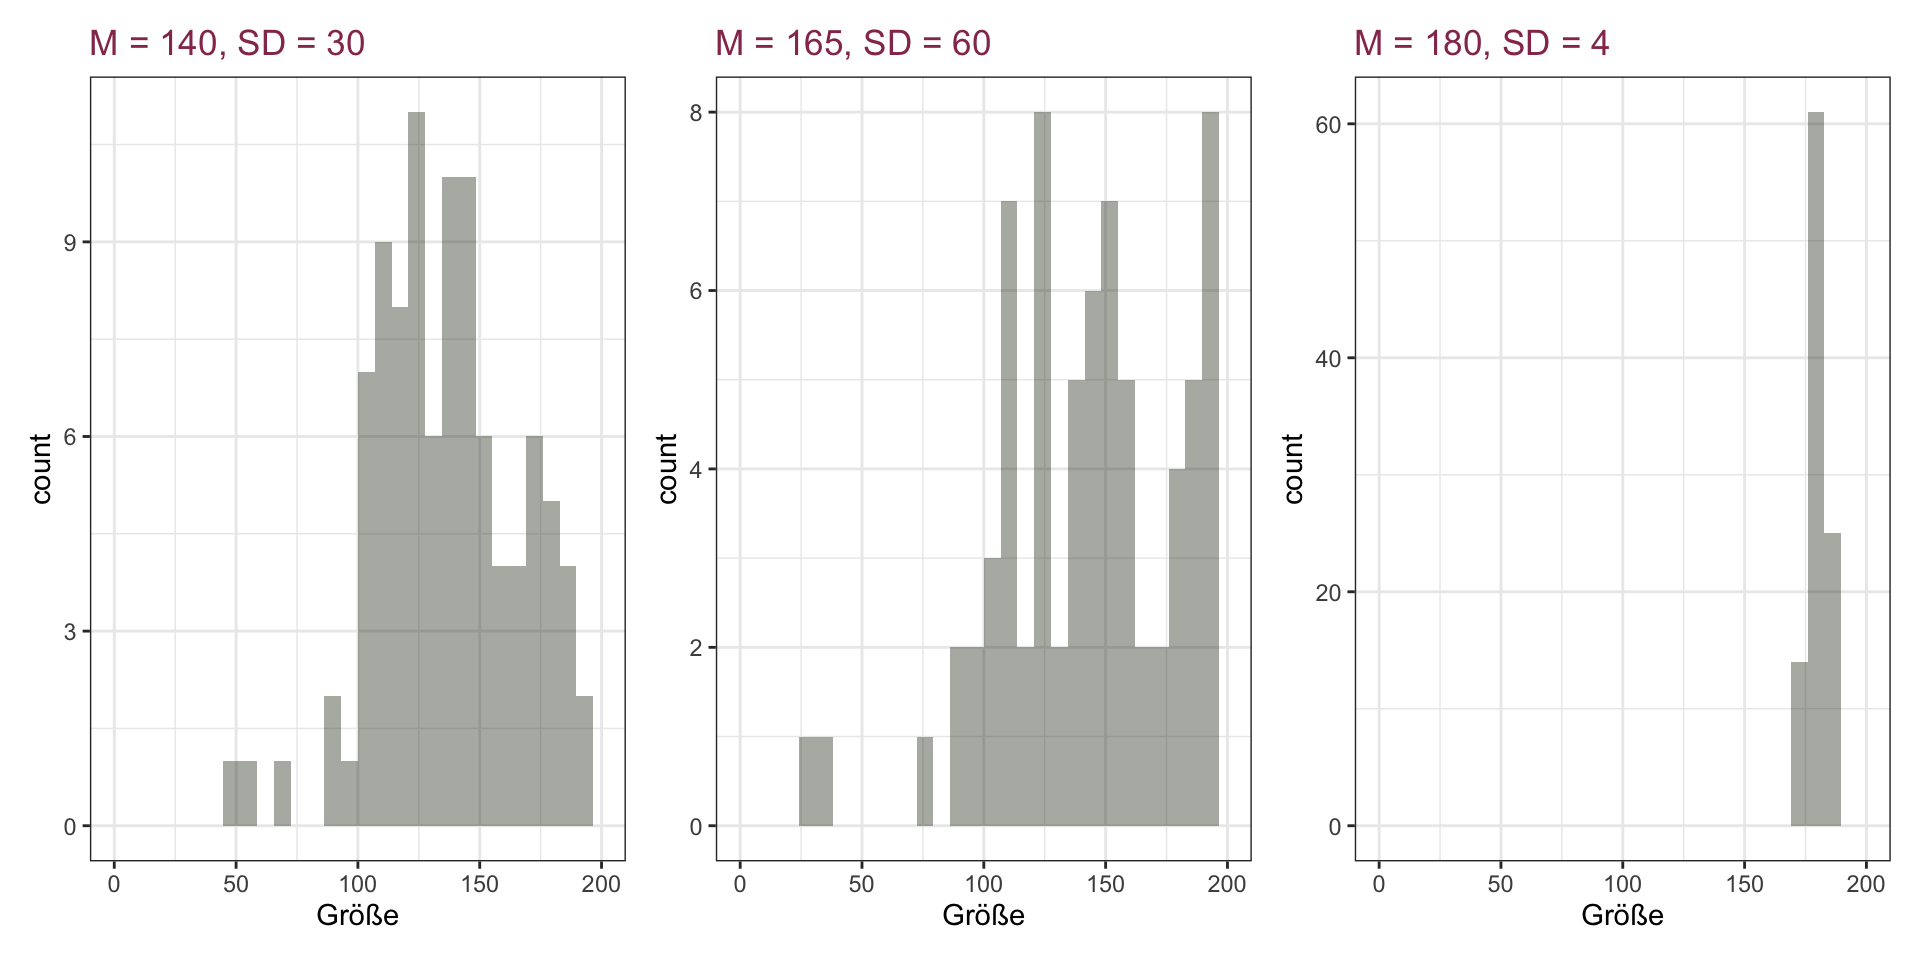
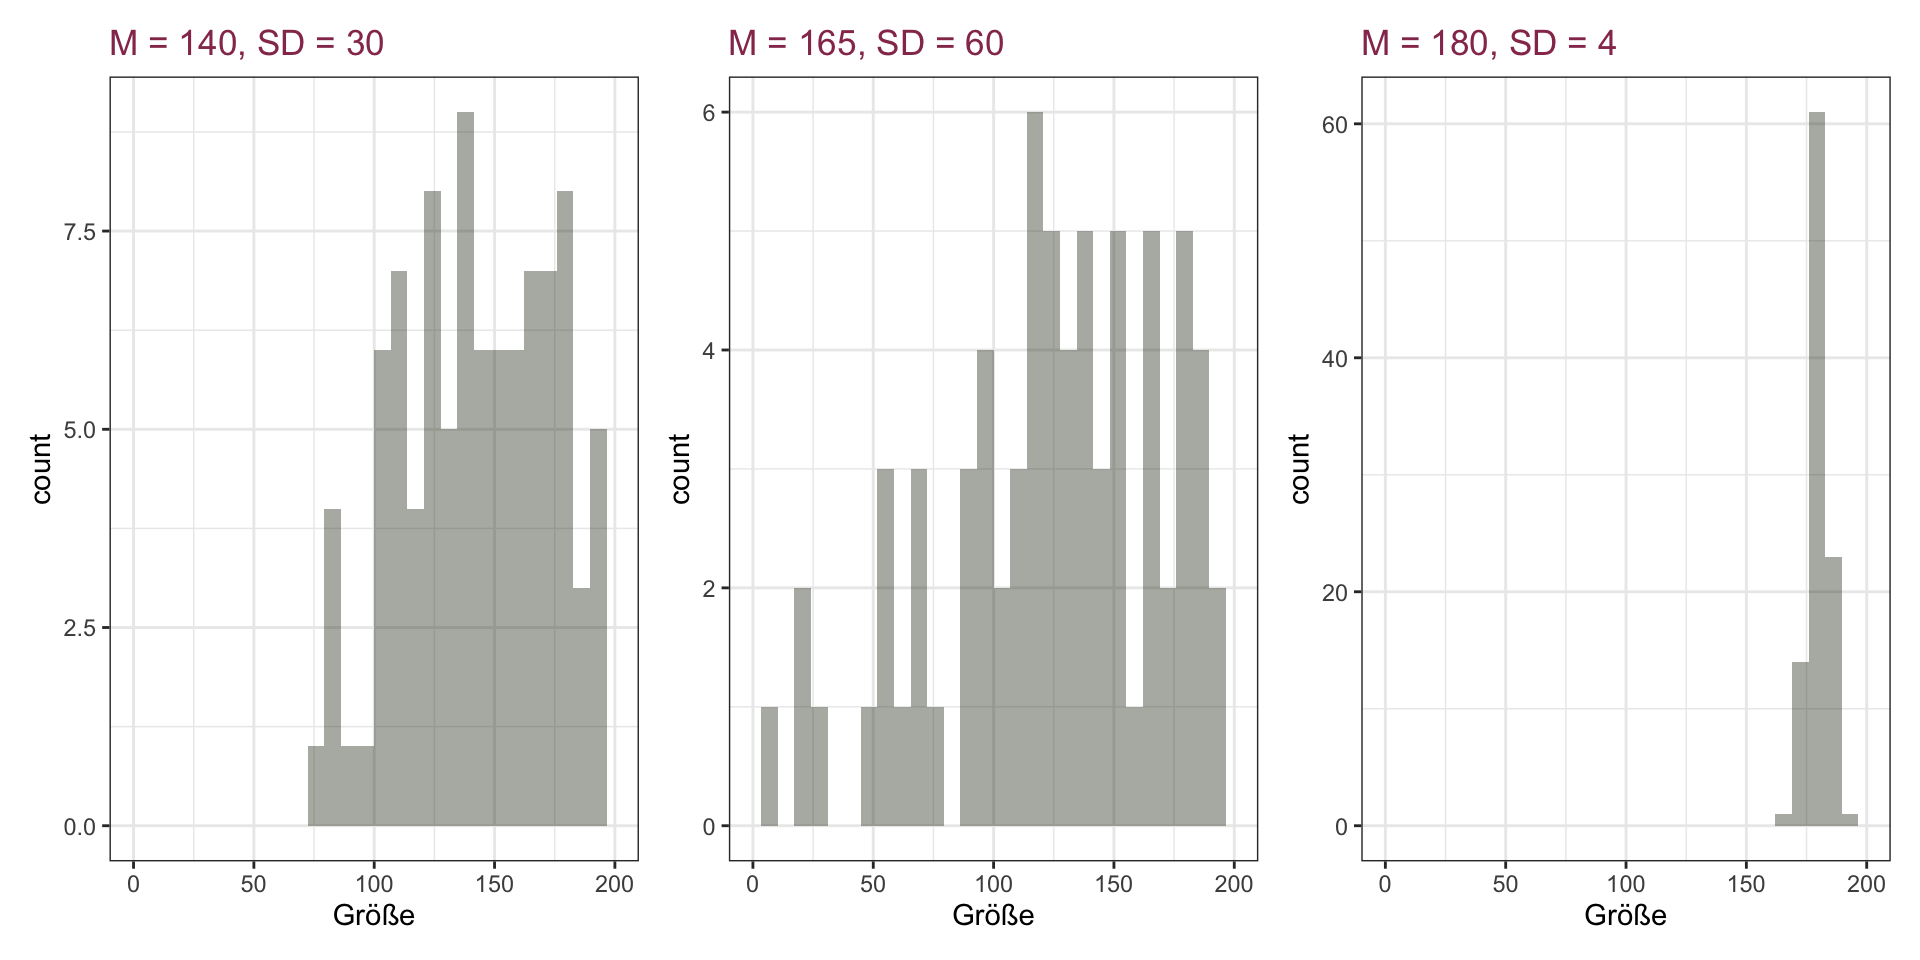
include Lernziele

diff --git a/docs/Sitzung_3.html b/docs/Sitzung_3.html
@@ -271,106 +271,106 @@ Eva Scheel
 <div class="cell">
 <div class="cell-output cell-output-stdout">
 <pre><code>    groesse_cm
-1        145.6
-2        151.5
-3        132.4
-4        129.8
-5        131.4
-6        135.3
-7        138.3
-8        132.3
-9        142.3
-10       133.3
-11       122.7
-12       136.0
-13       137.3
-14       143.3
-15       140.3
-16       134.5
-17       139.7
-18       144.9
-19       125.9
-20       144.3
-21       142.8
-22       146.1
-23       154.2
-24       146.2
-25       142.2
-26       133.8
-27       144.0
-28       139.4
-29       149.1
-30       140.8
-31       149.9
-32       136.5
-33       145.6
-34       143.1
-35       134.4
-36       125.9
-37       139.2
-38       151.3
-39       154.1
-40       129.9
-41       137.2
-42       138.5
-43       126.6
-44       149.8
-45       139.4
-46       151.7
-47       117.6
-48       128.5
-49       146.1
-50       126.7
-51       154.7
-52       141.9
-53       132.9
-54       146.0
-55       132.0
-56       130.2
-57       135.9
-58       136.7
-59       146.2
-60       158.1
-61       132.7
-62       125.4
-63       149.0
-64       145.2
-65       134.6
-66       141.6
-67       130.5
-68       136.5
-69       153.2
-70       137.1
-71       141.9
-72       151.6
-73       149.7
-74       144.6
-75       153.1
-76       131.5
-77       165.4
-78       150.3
-79       142.8
-80       143.9
-81       135.4
-82       126.8
-83       129.3
-84       155.2
-85       126.0
-86       132.6
-87       139.3
-88       154.7
-89       146.9
-90       131.9
-91       148.0
-92       126.0
-93       147.6
-94       133.1
-95       136.3
-96       138.6
-97       181.7
-98       134.8
-99       133.9
-100      151.3</code></pre>
+1        131.9
+2        136.3
+3        124.8
+4        133.3
+5        142.4
+6        140.0
+7        138.5
+8        132.6
+9        145.5
+10       152.6
+11       147.7
+12       121.5
+13       152.2
+14       125.1
+15       141.3
+16       144.0
+17       120.9
+18       122.7
+19       155.8
+20       140.9
+21       143.1
+22       148.6
+23       147.7
+24       124.7
+25       135.9
+26       138.8
+27       152.9
+28       133.8
+29       137.9
+30       138.6
+31       138.9
+32       138.1
+33       141.7
+34       148.8
+35       145.9
+36       138.2
+37       139.4
+38       140.1
+39       133.9
+40       137.1
+41       138.5
+42       126.2
+43       140.4
+44       133.1
+45       146.3
+46       130.1
+47       143.9
+48       146.8
+49       135.8
+50       132.0
+51       130.1
+52       138.1
+53       126.7
+54       147.0
+55       137.1
+56       139.5
+57       136.5
+58       149.0
+59       137.1
+60       141.2
+61       137.8
+62       156.0
+63       136.0
+64       145.6
+65       154.3
+66       146.2
+67       136.9
+68       130.9
+69       134.2
+70       111.1
+71       133.8
+72       142.2
+73       135.6
+74       119.9
+75       122.1
+76       150.5
+77       140.6
+78       142.4
+79       138.5
+80       147.1
+81       143.3
+82       140.8
+83       138.0
+84       139.5
+85       141.9
+86       137.7
+87       162.5
+88       130.7
+89       125.6
+90       136.1
+91       152.8
+92       139.7
+93       128.6
+94       141.0
+95       136.8
+96       141.3
+97       141.2
+98       135.5
+99       130.7
+100      159.4</code></pre>
 </div>
 </div>
 </div><div class="column">
@@ -379,10 +379,10 @@ Eva Scheel
 <pre><code>[1] "Anzahl Schüler:innen: 100"</code></pre>
 </div>
 <div class="cell-output cell-output-stdout">
-<pre><code>[1] "Höchstwert: 117.6"</code></pre>
+<pre><code>[1] "Höchstwert: 111.1"</code></pre>
 </div>
 <div class="cell-output cell-output-stdout">
-<pre><code>[1] "Tiefstwert: 181.7"</code></pre>
+<pre><code>[1] "Tiefstwert: 162.5"</code></pre>
 </div>
 </div>
 </div></div>
@@ -395,7 +395,7 @@ Eva Scheel
 <div class="cell">
 <div class="code-copy-outer-scaffold"><div class="sourceCode cell-code" id="cb5"><pre class="sourceCode numberSource r number-lines code-with-copy"><code class="sourceCode r"><span id="cb5-1"><a></a><span class="fu">mean</span>(heights<span class="sc">$</span>groesse_cm)</span></code></pre></div><button title="Copy to Clipboard" class="code-copy-button"><i class="bi"></i></button></div>
 <div class="cell-output cell-output-stdout">
-<pre><code>[1] 140.363</code></pre>
+<pre><code>[1] 138.743</code></pre>
 </div>
 </div>
 <p>Bezeichnung: <span class="math inline">\(M=`m`\)</span> oder <span class="math inline">\(\bar{x}\)</span></p>
@@ -423,21 +423,21 @@ Eva Scheel
 </div>
 <div class="code-copy-outer-scaffold"><div class="sourceCode cell-code" id="cb9"><pre class="sourceCode numberSource r number-lines code-with-copy"><code class="sourceCode r"><span id="cb9-1"><a></a>sorted_heights</span></code></pre></div><button title="Copy to Clipboard" class="code-copy-button"><i class="bi"></i></button></div>
 <div class="cell-output cell-output-stdout">
-<pre><code>  [1] 117.6 122.7 125.4 125.9 125.9 126.0 126.0 126.6 126.7 126.8 128.5 129.3
- [13] 129.8 129.9 130.2 130.5 131.4 131.5 131.9 132.0 132.3 132.4 132.6 132.7
- [25] 132.9 133.1 133.3 133.8 133.9 134.4 134.5 134.6 134.8 135.3 135.4 135.9
- [37] 136.0 136.3 136.5 136.5 136.7 137.1 137.2 137.3 138.3 138.5 138.6 139.2
- [49] 139.3 139.4 139.4 139.7 140.3 140.8 141.6 141.9 141.9 142.2 142.3 142.8
- [61] 142.8 143.1 143.3 143.9 144.0 144.3 144.6 144.9 145.2 145.6 145.6 146.0
- [73] 146.1 146.1 146.2 146.2 146.9 147.6 148.0 149.0 149.1 149.7 149.8 149.9
- [85] 150.3 151.3 151.3 151.5 151.6 151.7 153.1 153.2 154.1 154.2 154.7 154.7
- [97] 155.2 158.1 165.4 181.7</code></pre>
+<pre><code>  [1] 111.1 119.9 120.9 121.5 122.1 122.7 124.7 124.8 125.1 125.6 126.2 126.7
+ [13] 128.6 130.1 130.1 130.7 130.7 130.9 131.9 132.0 132.6 133.1 133.3 133.8
+ [25] 133.8 133.9 134.2 135.5 135.6 135.8 135.9 136.0 136.1 136.3 136.5 136.8
+ [37] 136.9 137.1 137.1 137.1 137.7 137.8 137.9 138.0 138.1 138.1 138.2 138.5
+ [49] 138.5 138.5 138.6 138.8 138.9 139.4 139.5 139.5 139.7 140.0 140.1 140.4
+ [61] 140.6 140.8 140.9 141.0 141.2 141.2 141.3 141.3 141.7 141.9 142.2 142.4
+ [73] 142.4 143.1 143.3 143.9 144.0 145.5 145.6 145.9 146.2 146.3 146.8 147.0
+ [85] 147.1 147.7 147.7 148.6 148.8 149.0 150.5 152.2 152.6 152.8 152.9 154.3
+ [97] 155.8 156.0 159.4 162.5</code></pre>
 </div>
 </div>
 <div class="cell">
 <div class="code-copy-outer-scaffold"><div class="sourceCode cell-code" id="cb11"><pre class="sourceCode numberSource r number-lines code-with-copy"><code class="sourceCode r"><span id="cb11-1"><a></a><span class="fu">median</span>(heights<span class="sc">$</span>groesse_cm)</span></code></pre></div><button title="Copy to Clipboard" class="code-copy-button"><i class="bi"></i></button></div>
 <div class="cell-output cell-output-stdout">
-<pre><code>[1] 139.4</code></pre>
+<pre><code>[1] 138.55</code></pre>
 </div>
 </div>
 
@@ -464,9 +464,9 @@ Eva Scheel
 <div class="cell-output cell-output-stdout">
 <pre><code>
    Biologie      Chemie     Deutsch    Englisch Französisch  Mathematik 
-         20          23          12          13          18          13 
+          8          17          12          13          22          23 
       Musik      Physik       Sport 
-         12          18          21 </code></pre>
+         16          18          21 </code></pre>
 </div>
 </div>
 <p>Anzahl Schüler:innen pro Hobby:</p>
@@ -474,9 +474,9 @@ Eva Scheel
 <div class="cell-output cell-output-stdout">
 <pre><code>
      Backgammon       Hula_Hoop      Kanufahren Modelleisenbahn         Posaune 
-             23              20              27              24              29 
+             27              26              23              25              24 
    Seilspringen 
-             27 </code></pre>
+             25 </code></pre>
 </div>
 </div>
 <p><span class="absolute" style="font-size: 70%; color: #6f5c7dea; bottom: 10px; ">*Erfundener Datensatz!</span></p>
@@ -496,20 +496,20 @@ Eva Scheel
 <div class="cell-output cell-output-stdout">
 <pre><code>                 
                   Biologie Chemie Deutsch Englisch Französisch Mathematik Musik
-  Backgammon             2      6       1        3           1          4     1
-  Hula_Hoop              1      1       2        4           4          2     2
-  Kanufahren             3      2       3        1           4          0     3
-  Modelleisenbahn        4      2       3        1           5          2     4
-  Posaune                6      4       1        1           2          5     1
-  Seilspringen           4      8       2        3           2          0     1
+  Backgammon             3      3       3        2           5          1     2
+  Hula_Hoop              1      4       2        2           3          3     5
+  Kanufahren             1      3       2        3           3          5     1
+  Modelleisenbahn        2      3       2        1           4          4     4
+  Posaune                0      1       3        2           2          8     1
+  Seilspringen           1      3       0        3           5          2     3
                  
                   Physik Sport
-  Backgammon           1     4
-  Hula_Hoop            2     2
-  Kanufahren           5     6
-  Modelleisenbahn      1     2
-  Posaune              6     3
-  Seilspringen         3     4</code></pre>
+  Backgammon           3     5
+  Hula_Hoop            2     4
+  Kanufahren           3     2
+  Modelleisenbahn      1     4
+  Posaune              5     2
+  Seilspringen         4     4</code></pre>
 </div>
 </div>
 </section>
@@ -764,6 +764,11 @@ SD = \sqrt{\frac{\sum (x-\bar{x})^2}{n-1}}
 </section>
 <section id="lernziele" class="slide level2">
 <h2>Lernziele</h2>
+<ul>
+<li>mit zentralen Maßen der Tendenz (arithmetisches Mittel, Median, Modus) vertraut sein, wissen wie sie sich in unterschiedlichen Verteilungen verhalten und für welche Daten, welches Maß angebracht ist.</li>
+<li>mit Streuungsmaßen (insbesondere Standardabweichung und Interquartilsabstand) vertraut sein, interpretieren und berechnen zu können.</li>
+<li>den Unterschied zwischen theoretischen und empirisch beobachteten Verteilungen zu kennen</li>
+</ul>
 
 
 </section>
